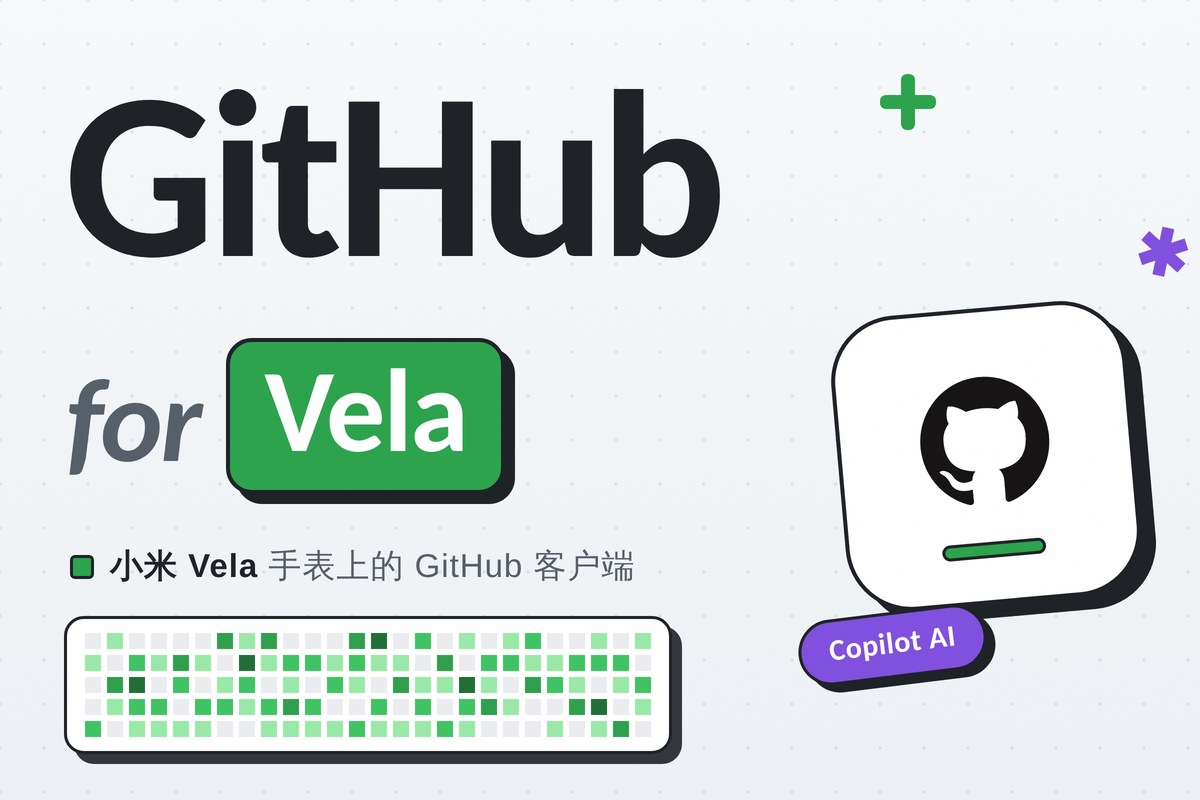
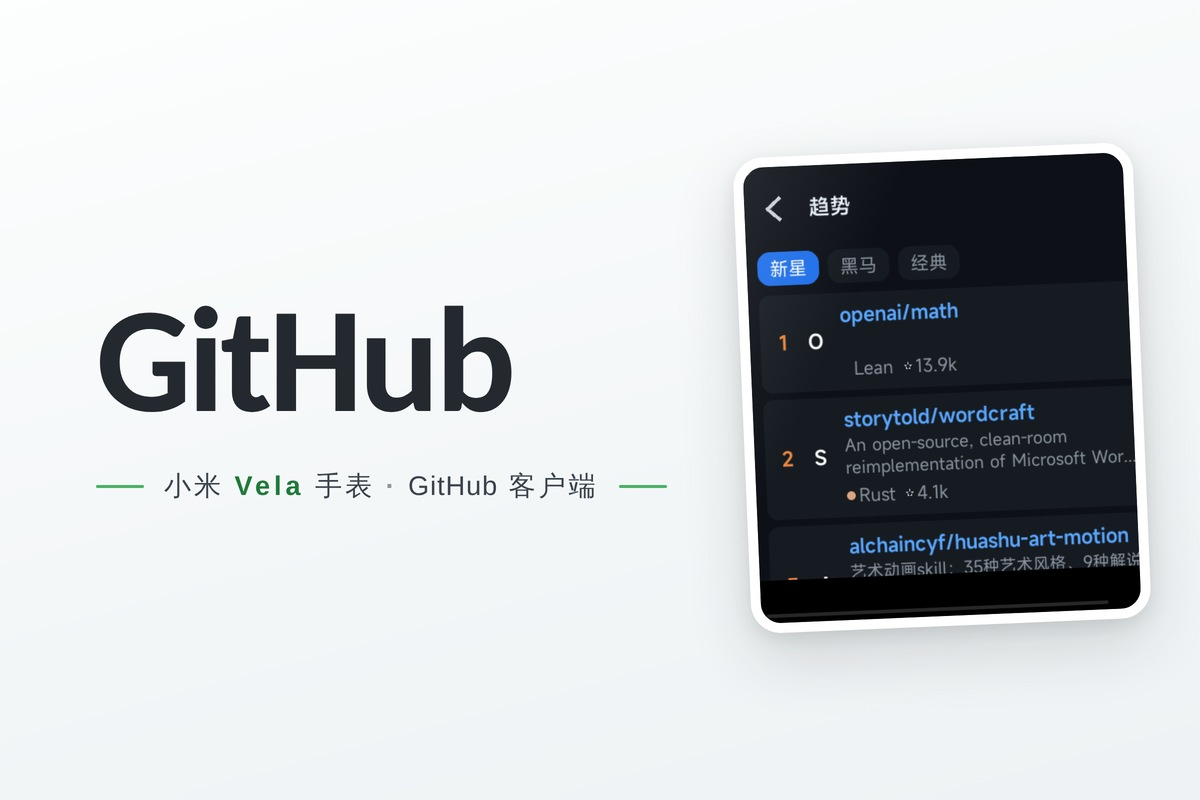
media: cover v6 — BandQQ-style minimal layout + README tagline

diff --git a/README.md b/README.md
@@ -1,2 +1,2 @@
 # astrobox-resource-io-github-gsjsjzhznsz-github
-AstroBox resource of Vela Github
+AstroBox resource of Vela Github —— 小米 Vela 手表 GitHub 客户端
